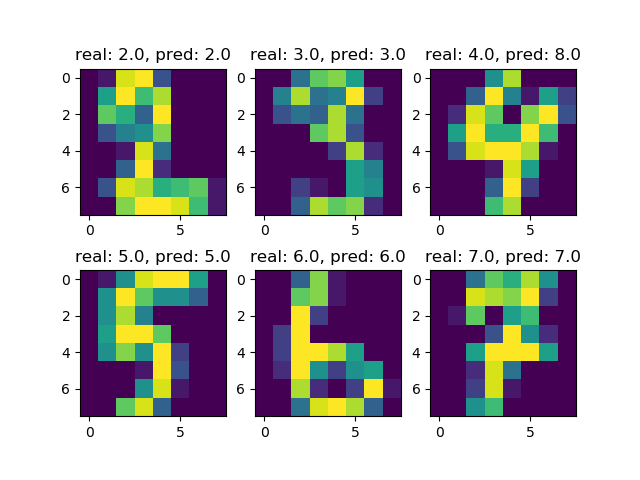
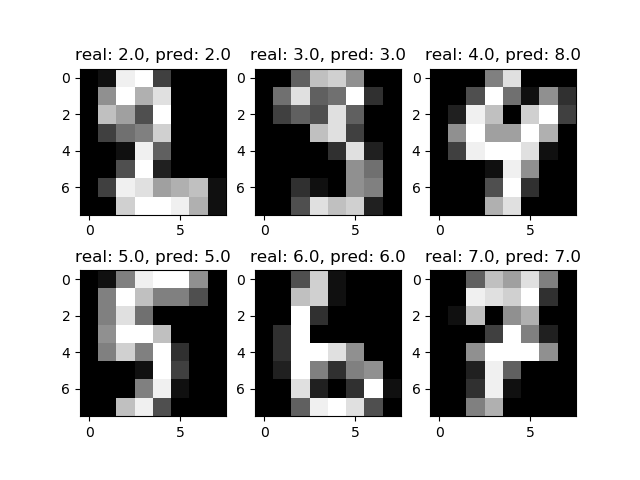
final

diff --git a/test.py b/test.py
@@ -82,7 +82,7 @@ for i in range(1, 7):
     #pasamos el label real a un label numerico
     y = y_decof(y_test_cod[lugar])
     print("Prediccion: ",out,", Real: ",y)
-    plt.imshow(np.reshape(X_test[lugar],(8,8)))
+    plt.imshow(np.reshape(X_test[lugar],(8,8)), cmap='gray')
     plt.title("real: "+str(y)+", pred: "+str(out))
     lugar += 1
 #Guardamos el modelo
